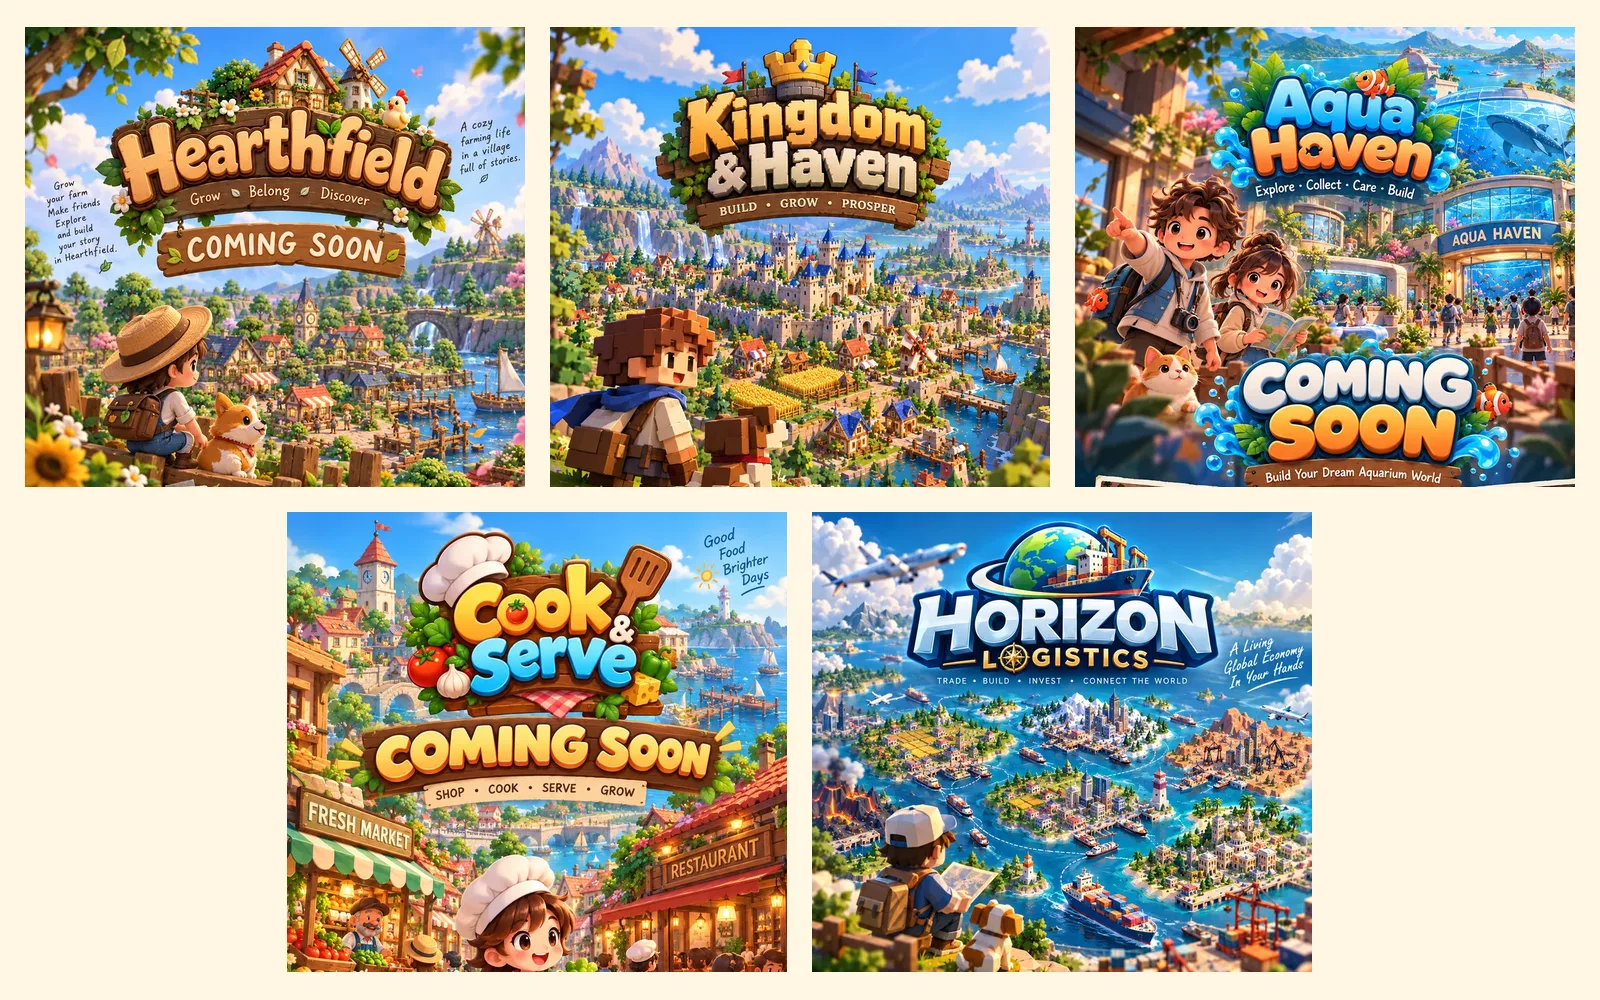
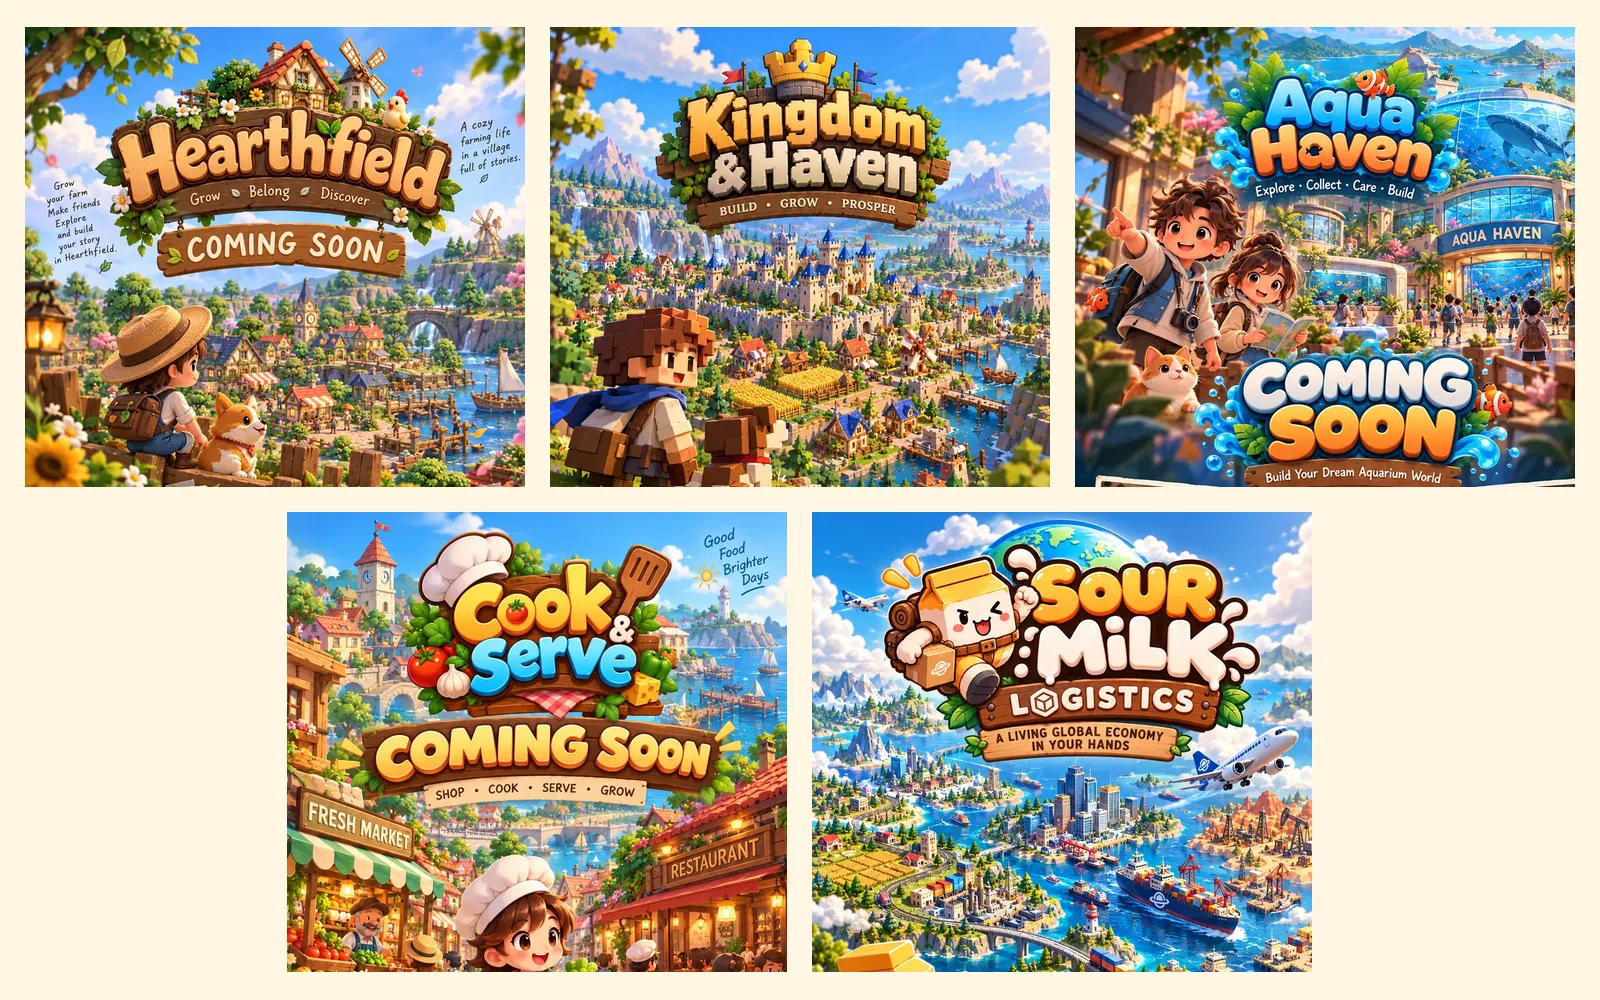
Rename Horizon Logistics to Sour Milk Logistics with new poster
Claude-Session: https://claude.ai/code/session_01KaMwSayj3fakoZXhA76CyA

Changed region(s): [[0.5, 0.496, 0.8438, 0.992]]

diff --git a/index.html b/index.html
@@ -372,15 +372,15 @@ footer{background:var(--ink);color:var(--sand);padding-block:48px 24px}
           </div>
         </article>
         <article class="ucard" style="--uc:#0E7C86">
-          <button class="uart" type="button" data-poster="horizon-logistics" data-name="Horizon Logistics" data-track="view_poster_horizon_logistics" id="poster_horizon_logistics_home" aria-label="See the Horizon Logistics poster">
-            <img src="/media/horizon-logistics-card.webp" alt="Horizon Logistics poster: a player with a map and a dog overlook islands linked by cargo ships and planes" loading="lazy" width="768" height="712">
+          <button class="uart" type="button" data-poster="sour-milk-logistics" data-name="Sour Milk Logistics" data-track="view_poster_sour_milk_logistics" id="poster_sour_milk_logistics_home" aria-label="See the Sour Milk Logistics poster">
+            <img src="/media/sour-milk-logistics-card.webp" alt="Sour Milk Logistics poster: the Sour Milk mascot with a map and a dog overlook islands linked by cargo ships, trains and planes" loading="lazy" width="768" height="712">
           </button>
           <div class="ubody">
             <span class="label soon">Coming soon</span>
-            <h3>Horizon Logistics</h3>
+            <h3>Sour Milk Logistics</h3>
             <div class="utag">Trade · Build · Invest · Connect the world</div>
-            <p>A living global economy in your hands. Trade across 10 countries, build factories and run your fleet, with stock markets in Pro Mode.</p>
-            <button class="btn small" type="button" data-poster="horizon-logistics" data-name="Horizon Logistics" data-track="view_poster_horizon_logistics">See poster</button>
+            <p>A living global economy in your hands. Trade around the world, build industries, manage your logistics, and invest to grow in a real-time economy.</p>
+            <button class="btn small" type="button" data-poster="sour-milk-logistics" data-name="Sour Milk Logistics" data-track="view_poster_sour_milk_logistics">See poster</button>
           </div>
         </article>
       </div>
@@ -502,15 +502,15 @@ footer{background:var(--ink);color:var(--sand);padding-block:48px 24px}
           </div>
         </article>
         <article class="ucard" style="--uc:#0E7C86">
-          <button class="uart" type="button" data-poster="horizon-logistics" data-name="Horizon Logistics" data-track="view_poster_horizon_logistics" id="poster_horizon_logistics_games" aria-label="See the Horizon Logistics poster">
-            <img src="/media/horizon-logistics-card.webp" alt="Horizon Logistics poster: a player with a map and a dog overlook islands linked by cargo ships and planes" loading="lazy" width="768" height="712">
+          <button class="uart" type="button" data-poster="sour-milk-logistics" data-name="Sour Milk Logistics" data-track="view_poster_sour_milk_logistics" id="poster_sour_milk_logistics_games" aria-label="See the Sour Milk Logistics poster">
+            <img src="/media/sour-milk-logistics-card.webp" alt="Sour Milk Logistics poster: the Sour Milk mascot with a map and a dog overlook islands linked by cargo ships, trains and planes" loading="lazy" width="768" height="712">
           </button>
           <div class="ubody">
             <span class="label soon">Coming soon</span>
-            <h3>Horizon Logistics</h3>
+            <h3>Sour Milk Logistics</h3>
             <div class="utag">Trade · Build · Invest · Connect the world</div>
-            <p>A living global economy in your hands. Trade across 10 countries, build factories and run your fleet, with stock markets in Pro Mode.</p>
-            <button class="btn small" type="button" data-poster="horizon-logistics" data-name="Horizon Logistics" data-track="view_poster_horizon_logistics">See poster</button>
+            <p>A living global economy in your hands. Trade around the world, build industries, manage your logistics, and invest to grow in a real-time economy.</p>
+            <button class="btn small" type="button" data-poster="sour-milk-logistics" data-name="Sour Milk Logistics" data-track="view_poster_sour_milk_logistics">See poster</button>
           </div>
         </article>
       </div>
@@ -670,12 +670,12 @@ footer{background:var(--ink);color:var(--sand);padding-block:48px 24px}
             </div>
           </article>
           <article class="post" data-article="upcoming_games_announced">
-            <img src="/media/upcoming-games.webp" alt="Poster art for five upcoming Sour Milk Studios games: Hearthfield, Kingdom &amp; Haven, Aqua Haven, Cook &amp; Serve and Horizon Logistics" width="1600" height="1000">
+            <img src="/media/upcoming-games.webp" alt="Poster art for five upcoming Sour Milk Studios games: Hearthfield, Kingdom &amp; Haven, Aqua Haven, Cook &amp; Serve and Sour Milk Logistics" width="1600" height="1000">
             <div class="copy">
               <time datetime="2026-10-05">Oct 5, 2026</time>
               <h3>Five new games are coming from Sour Milk Studios</h3>
-              <p>We're working on five new worlds: Hearthfield, Kingdom &amp; Haven, Aqua Haven, Cook &amp; Serve and Horizon Logistics.</p>
-              <p class="more" hidden><b>Hearthfield</b> is a cozy farming life in a village full of stories. <b>Kingdom &amp; Haven</b> lets you build, grow and defend your own kingdom. <b>Aqua Haven</b> is about building your dream aquarium world. In <b>Cook &amp; Serve</b> you shop, cook and run a restaurant. <b>Horizon Logistics</b> puts a living global economy in your hands. All five are coming soon. Follow us on Instagram for the first looks.</p>
+              <p>We're working on five new worlds: Hearthfield, Kingdom &amp; Haven, Aqua Haven, Cook &amp; Serve and Sour Milk Logistics.</p>
+              <p class="more" hidden><b>Hearthfield</b> is a cozy farming life in a village full of stories. <b>Kingdom &amp; Haven</b> lets you build, grow and defend your own kingdom. <b>Aqua Haven</b> is about building your dream aquarium world. In <b>Cook &amp; Serve</b> you shop, cook and run a restaurant. <b>Sour Milk Logistics</b> puts a living global economy in your hands. All five are coming soon. Follow us on Instagram for the first looks.</p>
               <div class="row">
                 <button class="btn small read" type="button" data-track="news_article_view">Read more</button>
                 <a class="btn play small" data-track="view_upcoming_games" href="#games" data-goto="upcoming_games">See the games <span class="arr">→</span></a>
@@ -784,7 +784,7 @@ footer{background:var(--ink);color:var(--sand);padding-block:48px 24px}
           <li class="fgame"><a href="#games" data-goto="upcoming_games">Kingdom &amp; Haven</a><span class="fsoon">Soon</span></li>
           <li class="fgame"><a href="#games" data-goto="upcoming_games">Aqua Haven</a><span class="fsoon">Soon</span></li>
           <li class="fgame"><a href="#games" data-goto="upcoming_games">Cook &amp; Serve</a><span class="fsoon">Soon</span></li>
-          <li class="fgame"><a href="#games" data-goto="upcoming_games">Horizon Logistics</a><span class="fsoon">Soon</span></li>
+          <li class="fgame"><a href="#games" data-goto="upcoming_games">Sour Milk Logistics</a><span class="fsoon">Soon</span></li>
         </ul>
       </div>
       <div>
